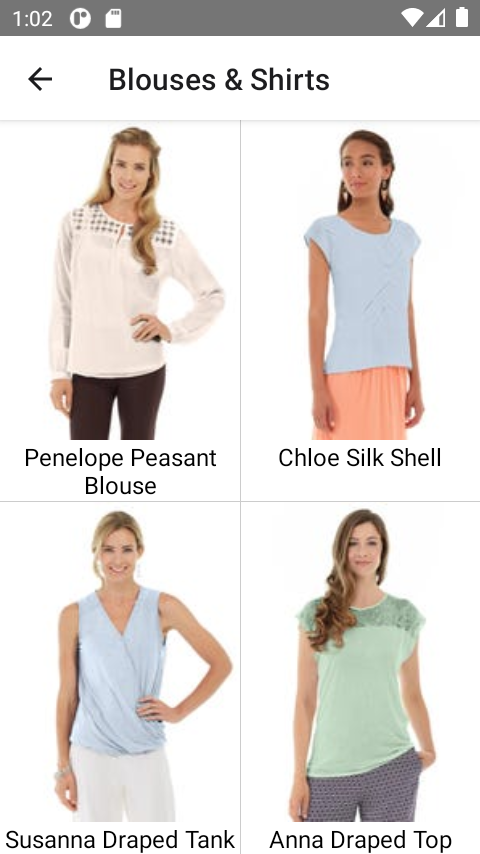
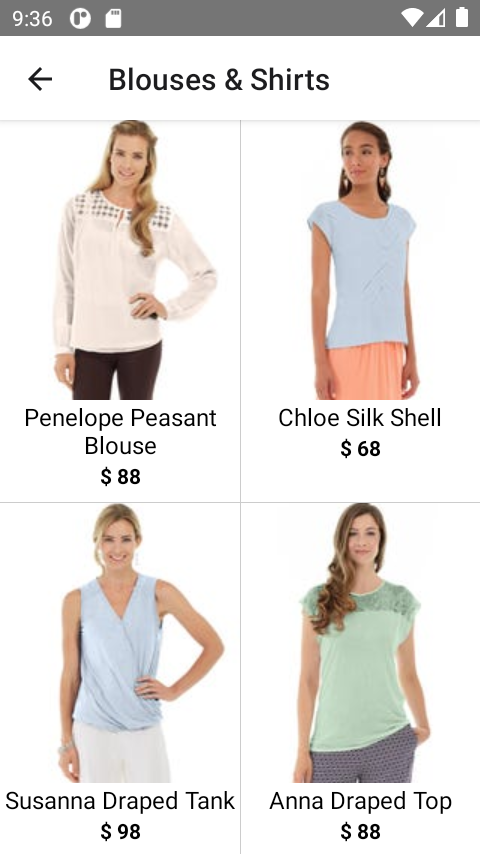
feat: Render product description in HTML

diff --git a/src/screens/ProductDetailsScreen/ProductDetailsScreen.tsx b/src/screens/ProductDetailsScreen/ProductDetailsScreen.tsx
@@ -1,13 +1,23 @@
 import React, { useEffect } from 'react';
-import { View, Text, ActivityIndicator } from 'react-native';
+import {
+  ScrollView,
+  View,
+  Text,
+  ActivityIndicator,
+  StyleSheet,
+  Dimensions,
+} from 'react-native';
 import { RouteProp } from '@react-navigation/native';
 import { StackNavigationProp } from '@react-navigation/stack';
+import HTML from 'react-native-render-html';
 import { MediaGallery } from '../../components';
+import { SPACING } from '../../constants';
 import {
   StackParamList,
   NAVIGATION_TO_PRODUCT_DETAILS_SCREEN,
 } from '../../navigation';
 import { useProductDetails } from '../../logic/products/useProductDetails';
+import { getPriceStringFromPriceRange } from '../../logic';
 
 type Props = {
   navigation: StackNavigationProp<
@@ -45,10 +55,40 @@ const ProductDetailsScreen = ({
   }
 
   return (
-    <View>
-      <MediaGallery items={productDetails?.media_gallery ?? []} />
-    </View>
+    <ScrollView>
+      <View>
+        <MediaGallery items={productDetails?.media_gallery ?? []} />
+        <Text style={styles.name}>{productDetails?.name}</Text>
+        {!!productDetails && (
+          <Text style={styles.price}>
+            {getPriceStringFromPriceRange(productDetails.price_range)}
+          </Text>
+        )}
+        {!!productDetails && (
+          <HTML
+            source={{ html: productDetails.description.html }}
+            contentWidth={Dimensions.get('window').width}
+            containerStyle={styles.description}
+          />
+        )}
+      </View>
+    </ScrollView>
   );
 };
+
+const styles = StyleSheet.create({
+  name: {
+    textAlign: 'center',
+    fontSize: 16,
+    marginTop: SPACING.large,
+  },
+  price: {
+    textAlign: 'center',
+    fontWeight: 'bold',
+  },
+  description: {
+    paddingHorizontal: SPACING.large,
+  },
+});
 
 export default ProductDetailsScreen;

diff --git a/src/logic/utils/price.test.ts b/src/logic/utils/price.test.ts
@@ -1,0 +1,56 @@
+import {
+  getCurrencySymbolFromCode,
+  getPriceStringFromPriceRange,
+} from './price';
+import { currencySymbols } from '../../../magento.config';
+
+describe('price.js', () => {
+  describe('getCurrencySymbolFromCode()', () => {
+    test('should return correct currency symbol', () => {
+      // Setup
+      const currencyCode = 'USD';
+      const expectedCurrencySymbol = currencySymbols[currencyCode];
+
+      // Exercise
+      const result = getCurrencySymbolFromCode(currencyCode);
+
+      // verify
+      expect(result).toBe(expectedCurrencySymbol);
+    });
+
+    test('should return currency code, if currency symbol not available', () => {
+      // Setup
+      const currencyCode = 'WWW';
+      const expectedCurrencySymbol = 'WWW';
+
+      // Exercise
+      const result = getCurrencySymbolFromCode(currencyCode);
+
+      // verify
+      expect(result).toBe(expectedCurrencySymbol);
+    });
+  });
+
+  describe('getPriceStringFromPriceRange()', () => {
+    test('should return correct string', () => {
+      // Setup
+      const currencyCode = 'USD';
+      const price = 29.99;
+      const priceRange = {
+        maximum_price: {
+          final_price: {
+            currency: currencyCode,
+            value: price,
+          },
+        },
+      };
+      const expectedResult = `${currencySymbols[currencyCode]} ${price}`;
+
+      // Exercise
+      const result = getPriceStringFromPriceRange(priceRange);
+
+      // Verify
+      expect(result).toBe(expectedResult);
+    });
+  });
+});

diff --git a/src/screens/ProductListScreen/ProductListItem.tsx b/src/screens/ProductListScreen/ProductListItem.tsx
@@ -8,6 +8,8 @@ import {
   TouchableOpacity,
 } from 'react-native';
 import { CategoryProductType } from '../../apollo/queries/getCategoryProducts';
+import { getPriceStringFromPriceRange } from '../../logic';
+import { SPACING } from '../../constants';
 
 interface Props {
   item: CategoryProductType;
@@ -36,6 +38,9 @@ const ProductListItem = ({
       <View style={[styles.container, index % 2 !== 0 && styles.leftBorder]}>
         {renderImage()}
         <Text style={styles.name}>{item.name}</Text>
+        <Text style={styles.price}>
+          {getPriceStringFromPriceRange(item.price_range)}
+        </Text>
       </View>
     </TouchableOpacity>
   );
@@ -60,6 +65,11 @@ const styles = StyleSheet.create({
   name: {
     textAlign: 'center',
     fontSize: 16,
+  },
+  price: {
+    textAlign: 'center',
+    fontWeight: 'bold',
+    marginBottom: SPACING.small,
   },
 });
 

diff --git a/src/apollo/queries/getProductDetails.ts b/src/apollo/queries/getProductDetails.ts
@@ -3,6 +3,7 @@ import {
   MEDIA_GALLERY_FRAGMENT,
   MediaGalleryItemType,
 } from './mediaGalleryFragment';
+import { PriceRangeType } from './getCategoryProducts';
 
 export interface ProductDetailsDataType {
   products: {
@@ -14,6 +15,10 @@ export interface ProductDetailsType {
   id: number;
   sku: string;
   name: string;
+  description: {
+    html: string;
+  };
+  price_range: PriceRangeType;
   media_gallery: Array<MediaGalleryItemType>;
 }
 
@@ -24,6 +29,17 @@ export const GET_PRODUCT_DETAILS = gql`
         id
         sku
         name
+        description {
+          html
+        }
+        price_range {
+          maximum_price {
+            final_price {
+              currency
+              value
+            }
+          }
+        }
         ...MediaGallery
       }
     }

diff --git a/magento.config.js b/magento.config.js
@@ -4,3 +4,23 @@ export const magentoConfig = {
   // Id of the category that host first level categories
   baseCategoryId: '2',
 };
+
+/**
+ * Magento 2 REST API doesn't return currency symbol,
+ * so manually specify all currency symbol(that your store support)
+ * along side their currency code.
+ */
+export const currencySymbols = Object.freeze({
+  USD: '$',
+  EUR: '€',
+  AUD: 'A$',
+  GBP: '£',
+  CAD: 'CA$',
+  CNY: 'CN¥',
+  JPY: '¥',
+  SEK: 'SEK',
+  CHF: 'CHF',
+  INR: '₹',
+  KWD: 'د.ك',
+  RON: 'RON',
+});

diff --git a/src/logic/utils/price.ts b/src/logic/utils/price.ts
@@ -1,0 +1,14 @@
+import { currencySymbols } from '../../../magento.config';
+import { PriceRangeType } from '../../apollo/queries/getCategoryProducts';
+
+export const getCurrencySymbolFromCode = (currencyCode: string) => {
+  return currencySymbols[currencyCode] ?? currencyCode;
+};
+
+export const getPriceStringFromPriceRange = (
+  priceRange: PriceRangeType,
+): string => {
+  return `${getCurrencySymbolFromCode(
+    priceRange.maximum_price.final_price.currency,
+  )} ${priceRange.maximum_price.final_price.value}`;
+};

diff --git a/src/apollo/queries/getCategoryProducts.ts b/src/apollo/queries/getCategoryProducts.ts
@@ -14,10 +14,10 @@ export interface CategoryProductType {
   small_image: {
     url: String;
   };
-  price_range: CatgeoryProductPriceType;
+  price_range: PriceRangeType;
 }
 
-interface CatgeoryProductPriceType {
+export interface PriceRangeType {
   maximum_price: {
     final_price: {
       currency: string;

diff --git a/src/logic/index.ts b/src/logic/index.ts
@@ -1,2 +1,3 @@
 export * from './categories/useCategories';
 export * from './products/useCategoryProducts';
+export * from './utils/price';

diff --git a/README.md b/README.md
@@ -14,6 +14,8 @@ E-Commerce App written in React Native which consumes [Magento 2 GraphQL api](ht
 <div style="display:flex;" >
   <img src=".github/screenshots/1.png" width="19%" >
   <img src=".github/screenshots/2.png" style="margin-left:10px;" width="19%" >
+  <img src=".github/screenshots/3.png" style="margin-left:10px;" width="19%" >
+  <img src=".github/screenshots/4.png" style="margin-left:10px;" width="19%" >
 </div>
 
 ## 🚀 Getting Started:
